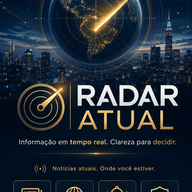
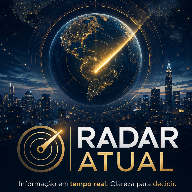
Capa inicial sem corte: ícone 512/192 recortado do pôster sem cortar nada (splash nativo) e splash do app em object-fit:contain; SW v208

diff --git a/public/index.html b/public/index.html
@@ -12,7 +12,7 @@
 <link rel="manifest" href="/manifest.json">
 <link rel="preconnect" href="https://fonts.googleapis.com"><link rel="preconnect" href="https://fonts.gstatic.com" crossorigin>
 <link href="https://fonts.googleapis.com/css2?family=Lora:ital,wght@0,400;0,500;0,600;1,400&family=Playfair+Display:wght@600;700;800&display=swap" rel="stylesheet">
-<link rel="stylesheet" href="/assets/radar.css?v=206">
+<link rel="stylesheet" href="/assets/radar.css?v=208">
 <link rel="preload" as="script" href="/assets/app.js?v=207">
 <script>
 /* ── A PELE DA HOME (bege ou azul) ──────────────────────────────────────────

diff --git a/public/assets/radar.css b/public/assets/radar.css
@@ -12,7 +12,7 @@ html,body{height:100%;background:var(--bg);color:var(--txt);font-family:-apple-s
 
 /* ══ SPLASH ══ */
 #splash{background:var(--bg);align-items:center;justify-content:center;cursor:pointer}
-#splash img{width:100%;height:100%;object-fit:cover;object-position:top}
+#splash img{width:100%;height:100%;object-fit:contain;object-position:center} /* 10/10/2026: contain — a capa inteira, sem cortar nada (antes era cover e cortava os cantos no A22) */
 
 /* ══ HOME ══ */
 #home{background:var(--bg)}
